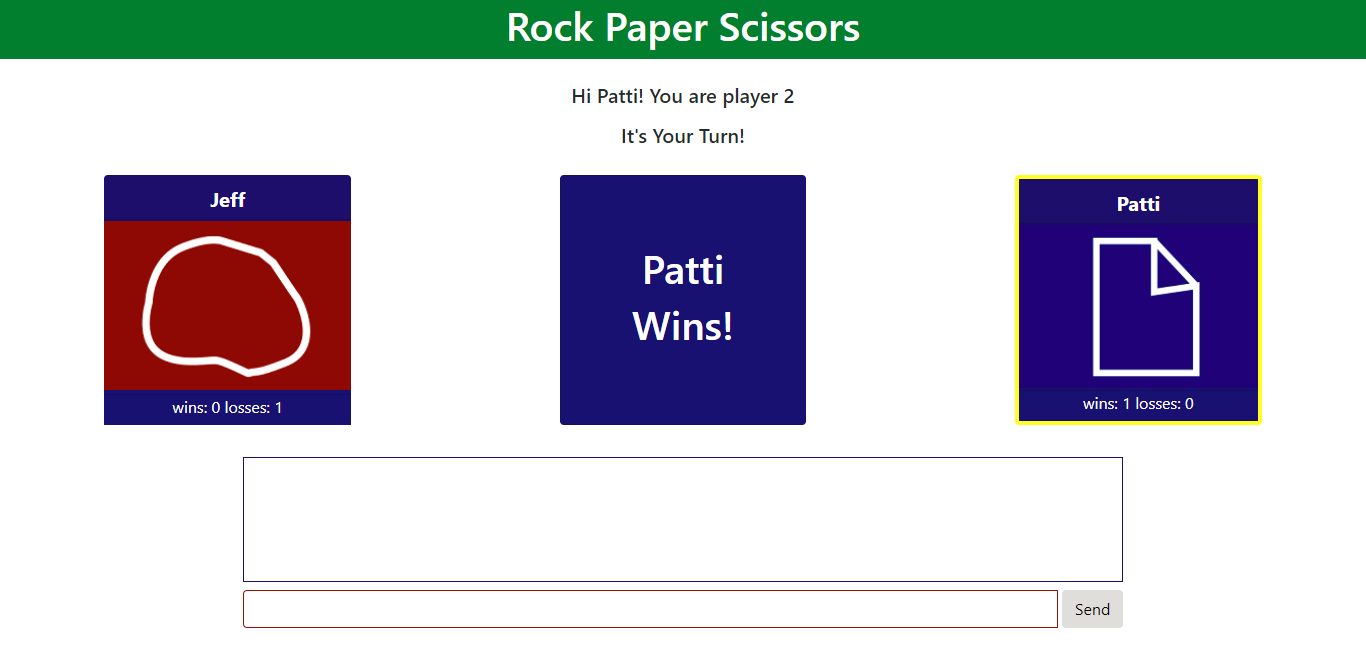
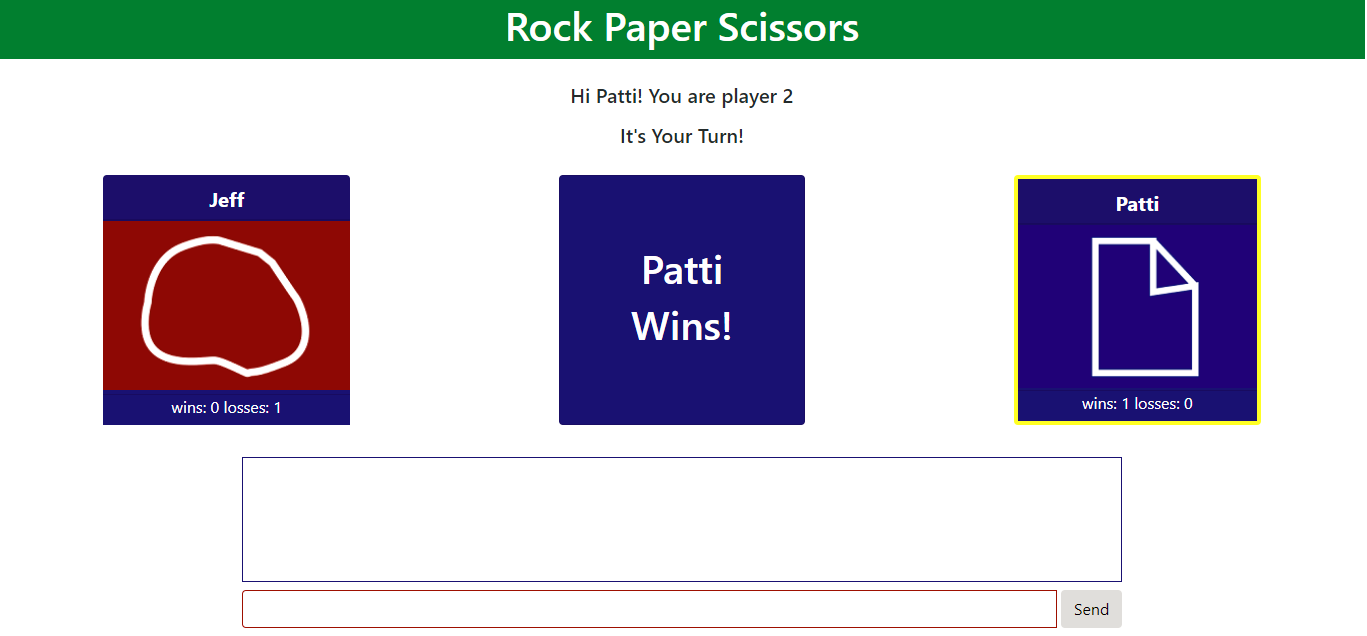
further CSS adjustments for different viewport sizes

diff --git a/assets/css/style.css b/assets/css/style.css
@@ -193,10 +193,63 @@ body {
 		min-height: 100%;
 	}
 
-	@media screen and (min-width: 960px) and (max-width: 1300px) {
+	@media screen and (min-width: 1201px) and (max-width: 1350px) {
 
-		#hangmanMask, #wdMask, #triviaMask, #rpsMask, #giphyMask, #hootMask, #pcMask, #burgerMask {
+		#hangmanMask, #triviaMask, #rpsMask, #giphyMask, #burgerMask {
+			font-size: 0.95rem;
+		}
+
+		#wdMask, #pcMask, #hootMask {
+			font-size: 0.85rem;
+		}
+
+
+		h1 {
+			font-size: 2.2rem;
+		}
+
+		h3 {
+			font-size: 1.7rem;
+		}
+	
+	}
+
+
+	@media screen and (min-width: 1101px) and (max-width: 1200px) {
+
+		#hangmanMask, #triviaMask, #rpsMask, #giphyMask, #burgerMask {
+			font-size: 0.9rem;
+		}
+
+		#wdMask, #pcMask, #hootMask {
+			font-size: 0.75rem;
+		}
+
+
+		h1 {
+			font-size: 2.2rem;
+		}
+
+		h3 {
+			font-size: 1.7rem;
+		}
+	
+	}
+
+
+	@media screen and (min-width: 1044px) and (max-width: 1100px) {
+
+		#hangmanMask, #triviaMask, #rpsMask, #giphyMask, #burgerMask {
+			font-size: 0.8rem;
+		}
+
+		#wdMask, #pcMask, #hootMask {
 			font-size: 0.7rem;
+		}
+
+
+		h1 {
+			font-size: 1.8rem;
 		}
 
 		h3 {
@@ -208,7 +261,28 @@ body {
 
 
 
-@media screen and (min-width: 768px) and (max-width: 960px) {
+	@media screen and (min-width: 992px) and (max-width: 1043px) {
+
+		#hangmanMask, #wdMask, #triviaMask, #rpsMask, #giphyMask, #hootMask, #pcMask, #burgerMask {
+			font-size: 0.75rem;
+		}
+
+		#wdMask, #pcMask, #hootMask {
+			font-size: 0.65rem;
+		}
+
+		h1 {
+			font-size: 1.8rem;
+		}
+
+		h3 {
+			font-size: 1.4rem;
+		}
+	
+	}
+
+
+@media screen and (min-width: 768px) and (max-width: 991px) {
 
 	.cmar {
 		margin-bottom: 20px;
@@ -218,8 +292,12 @@ body {
 
 @media screen and (min-width: 481px) and (max-width: 767px) {
 
-	#hangmanMask, #wdMask, #triviaMask, #rpsMask, #giphyMask, #hootMask, #pcMask, #burgerMask {
+	#hangmanMask, #triviaMask, #rpsMask, #giphyMask, #burgerMask {
 		font-size: 1rem;
+	}
+
+	#wdMask, #pcMask, #hootMask {
+		font-size: 0.95rem;
 	}
 
 	.cmar {
@@ -242,8 +320,12 @@ body {
 		font-size: 1.4rem;
 	}
 
-	#hangmanMask, #wdMask, #triviaMask, #rpsMask, #giphyMask, #hootMask, #pcMask, #burgerMask {
-		font-size: 0.7rem;
+	#hangmanMask, #triviaMask, #rpsMask, #giphyMask, #burgerMask {
+		font-size: 0.85rem;
+	}
+
+	#wdMask, #pcMask, #hootMask {
+		font-size: 0.74rem;
 	}
 
 	.cmar {

diff --git a/index.html b/index.html
@@ -378,7 +378,7 @@
                                             </div>
                                             <div class="w-100 h-100" id="hangmanMask">
                                                 <p class="text-left ml-5 mt-4 mr-5 text-justify">A Disney themed hangman game.  Guess the name of the character to see their picture.</p>
-                                                <p class="text-left ml-5 mt-3">
+                                                <p class="text-left ml-5 mt-3 mr-3">
                                                     <span class="badge badge-light mr-2">HTML</span>
                                                     <span class="badge badge-light mr-2">CSS</span>
                                                     <span class="badge badge-light mr-2">Bootstrap</span>
